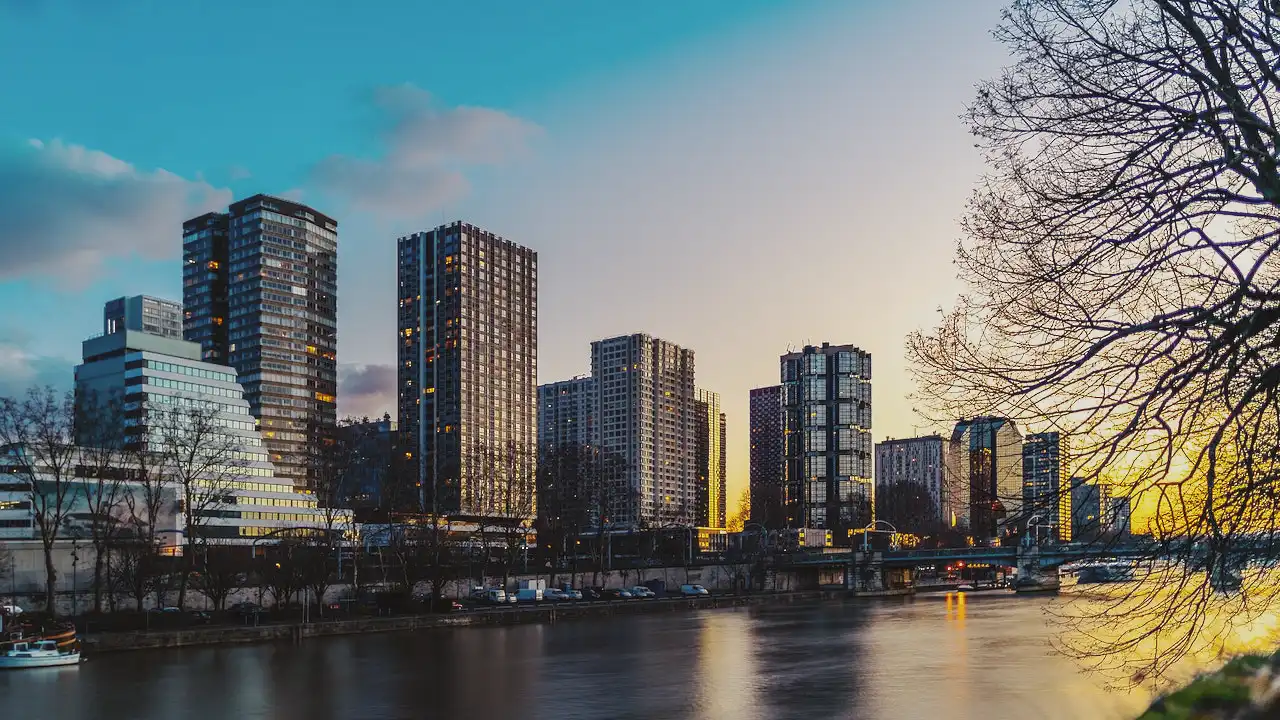
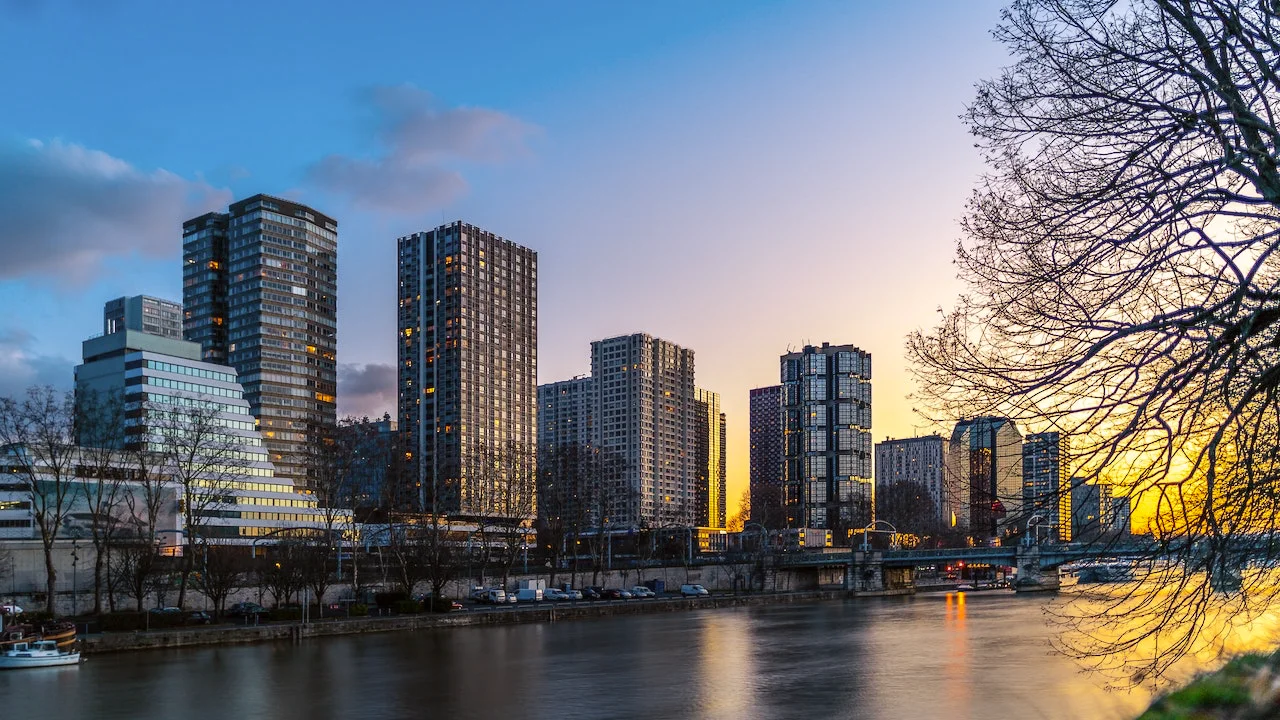
feat: add image credits and improve image qualities

diff --git a/index.html b/index.html
@@ -17,7 +17,7 @@
   <!-- Responsive navbar-->
   <nav class="navbar navbar-expand-lg navbar-dark bg-dark">
     <div class="container">
-      <a class="navbar-brand" href="#!">Estate Manage - Home Page (Work In Progress)</a>
+      <a class="navbar-brand" href="#!">Estate Manage - Home Page (Beta)</a>
       <button class="navbar-toggler" type="button" data-bs-toggle="collapse" data-bs-target="#navbarSupportedContent"
         aria-controls="navbarSupportedContent" aria-expanded="false" aria-label="Toggle navigation"><span
           class="navbar-toggler-icon"></span></button>
@@ -39,6 +39,10 @@
       <h3 class="text-white-50 mb-0">Easy, Quick, Handy</h3>
     </div>
   </header>
+  <div class="image-credit-white">Photo by <a
+      href="https://www.pexels.com/photo/view-of-cityscape-during-golden-hour-2389474/" target="_blank">Pierre Blaché
+      from Pexels</a>
+  </div>
   <!-- Content section-->
   <section class="pb-5">
     <div class="container my-4">
@@ -57,6 +61,10 @@
     <!-- Put anything you want here! The spacer below with inline CSS is just for demo purposes!-->
     <div style="height: 20rem"></div>
   </div>
+  <div class="image-credit-white">Photo by <a
+      href="https://www.pexels.com/photo/crop-man-using-smartphone-while-sitting-in-car-at-seaside-4310612/"
+      target="_blank">ArtHouse Studio from Pexels</a>
+  </div>
   <!-- Content section-->
   <section class="pb-5">
     <div class="container my-4">
@@ -73,8 +81,11 @@
 
   <!-- Image element - set the background image for the header in the line below-->
   <div class="py-5 bg-image-full" style="background-image: url('assets/images/amenities_1280x480.webp')">
-    <!-- Put anything you want here! The spacer below with inline CSS is just for demo purposes!-->
     <div style="height: 20rem"></div>
+  </div>
+  <div class="image-credit-black">Photo by <a
+      href="https://www.pexels.com/photo/man-in-gray-shirt-hitting-a-volleyball-10855502/" target="_blank">Danny Sanz
+      from Pexels</a>
   </div>
   <!-- Content section-->
   <section class="pb-5">
@@ -95,6 +106,10 @@
     <!-- Put anything you want here! The spacer below with inline CSS is just for demo purposes!-->
     <div style="height: 20rem"></div>
   </div>
+  <div class="image-credit-white">Photo by <a
+      href="https://www.pexels.com/photo/marketing-posters-and-ads-on-wall-3752659/" target="_blank">Valeriia
+      Miller from Pexels</a>
+  </div>
   <!-- Content section-->
   <section class="pb-5">
     <div class="container my-4">
@@ -113,6 +128,9 @@
   <div class="py-5 bg-image-full" style="background-image: url('assets/images/worldwide_1280x480.webp')">
     <!-- Put anything you want here! The spacer below with inline CSS is just for demo purposes!-->
     <div style="height: 20rem"></div>
+  </div>
+  <div class="image-credit-black">Photo by <a href="https://www.pexels.com/photo/a-globe-with-push-pins-7236028/"
+      target="_blank">Nataliya Vaitkevich from Pexels</a>
   </div>
   <!-- Content section-->
   <section class="pb-5">
@@ -133,6 +151,9 @@
     <!-- Put anything you want here! The spacer below with inline CSS is just for demo purposes!-->
     <div style="height: 20rem"></div>
   </div>
+  <div class="image-credit-white">Photo by <a href="https://www.pexels.com/photo/security-logo-60504/"
+      target="_blank">Pixabay from Pexels</a>
+  </div>
   <!-- Content section-->
   <section class="pb-5">
     <div class="container my-4">
@@ -150,7 +171,10 @@
   <!-- Footer-->
   <footer class="py-5 bg-dark">
     <div class="container">
-      <p class="m-0 text-center text-white">Copyright &copy; Estate Manage 2022</p>
+      <p class="m-0 text-center text-white">Developed with Passion 🔥 <a class="a-white"
+          href="https://github.com/simonho288/EstateManage_Backend" target="_blank">Open sources via GitHub</a> and <a
+          class="a-white" href="https://app.estatemanage.net">Free
+          to use</a></p>
     </div>
   </footer>
   <!-- Bootstrap core JS-->

diff --git a/about.html b/about.html
@@ -17,7 +17,7 @@
   <!-- Responsive navbar-->
   <nav class="navbar navbar-expand-lg navbar-dark bg-dark">
     <div class="container">
-      <a class="navbar-brand" href="#!">Estate Manage - About Page</a>
+      <a class="navbar-brand" href="#!">Estate Manage - About Page (Beta)</a>
       <button class="navbar-toggler" type="button" data-bs-toggle="collapse" data-bs-target="#navbarSupportedContent"
         aria-controls="navbarSupportedContent" aria-expanded="false" aria-label="Toggle navigation"><span
           class="navbar-toggler-icon"></span></button>
@@ -36,6 +36,10 @@
   <div class="py-5 bg-image-full" style="background-image: url('assets/images/open_1280x480.webp')">
     <!-- Put anything you want here! The spacer below with inline CSS is just for demo purposes!-->
     <div style="height: 20rem"></div>
+  </div>
+  <div class="image-credit-white">Photo by <a
+      href="https://www.pexels.com/photo/shallow-focus-photo-of-white-open-sigange-3345876/" target="_blank">Tim
+      Mossholder from Pexels</a>
   </div>
   <!-- Content section-->
   <section class="pb-5">
@@ -56,6 +60,9 @@
     <!-- Put anything you want here! The spacer below with inline CSS is just for demo purposes!-->
     <div style="height: 20rem"></div>
   </div>
+  <div class="image-credit-white">Photo by <a href="https://www.pexels.com/photo/people-donating-goods-6646947/"
+      target="_blank">RODNAE Productions from Pexels</a>
+  </div>
   <!-- Content section-->
   <section class="pb-5">
     <div class="container my-4">
@@ -74,6 +81,10 @@
   <div class="py-5 bg-image-full" style="background-image: url('assets/images/better_1280x480.webp')">
     <!-- Put anything you want here! The spacer below with inline CSS is just for demo purposes!-->
     <div style="height: 20rem"></div>
+  </div>
+  <div class="image-credit-white">Photo by <a
+      href="https://www.pexels.com/photo/better-text-on-blue-background-9016997/" target="_blank">Kevin Malik from
+      Pexels</a>
   </div>
   <!-- Content section-->
   <section class="pb-5">
@@ -94,6 +105,10 @@
     <!-- Put anything you want here! The spacer below with inline CSS is just for demo purposes!-->
     <div style="height: 20rem"></div>
   </div>
+  <div class="image-credit-black">Photo by <a href="https://www.pexels.com/photo/thank-you-heart-text-791024/"
+      target="_blank">Řaj Vaishnaw from
+      Pexels</a>
+  </div>
   <!-- Content section-->
   <section class="pb-5">
     <div class="container my-4">
@@ -111,9 +126,10 @@
 
   <!-- Footer-->
   <footer class="py-5 bg-dark">
-    <div class="container">
-      <p class="m-0 text-center text-white">Copyright &copy; Estate Manage 2022</p>
-    </div>
+    <p class="m-0 text-center text-white">Developed with Passion 🔥 <a class="a-white"
+        href="https://github.com/simonho288/EstateManage_Backend" target="_blank">Open sources via GitHub</a> and <a
+        class="a-white" href="https://app.estatemanage.net">Free
+        to use</a></p>
   </footer>
   <!-- Bootstrap core JS-->
   <script src="js/bootstrap.bundle.min.js"></script>

diff --git a/css/styles.css b/css/styles.css
@@ -276,6 +276,15 @@ a:hover {
   color: #0a58ca;
 }
 
+.a-white {
+  color: white;
+  text-decoration: underline;
+}
+
+.a-white:hover {
+  color: white;
+}
+
 a:not([href]):not([class]),
 a:not([href]):not([class]):hover {
   color: inherit;
@@ -12243,4 +12252,36 @@ fieldset:disabled .btn {
   background-attachment: scroll;
   background-position: center;
   background-size: cover;
+}
+
+.image-credit-white {
+  margin-top: -20px;
+  text-align: right;
+  color: white;
+  font-size: 12px;
+  margin-right: 5px;
+}
+
+.image-credit-white a {
+  margin-top: -20px;
+  text-align: right;
+  color: white;
+  font-size: 12px;
+  margin-right: 5px;
+}
+
+.image-credit-black {
+  margin-top: -20px;
+  text-align: right;
+  color: black;
+  font-size: 12px;
+  margin-right: 5px;
+}
+
+.image-credit-black a {
+  margin-top: -20px;
+  text-align: right;
+  color: black;
+  font-size: 12px;
+  margin-right: 5px;
 }
